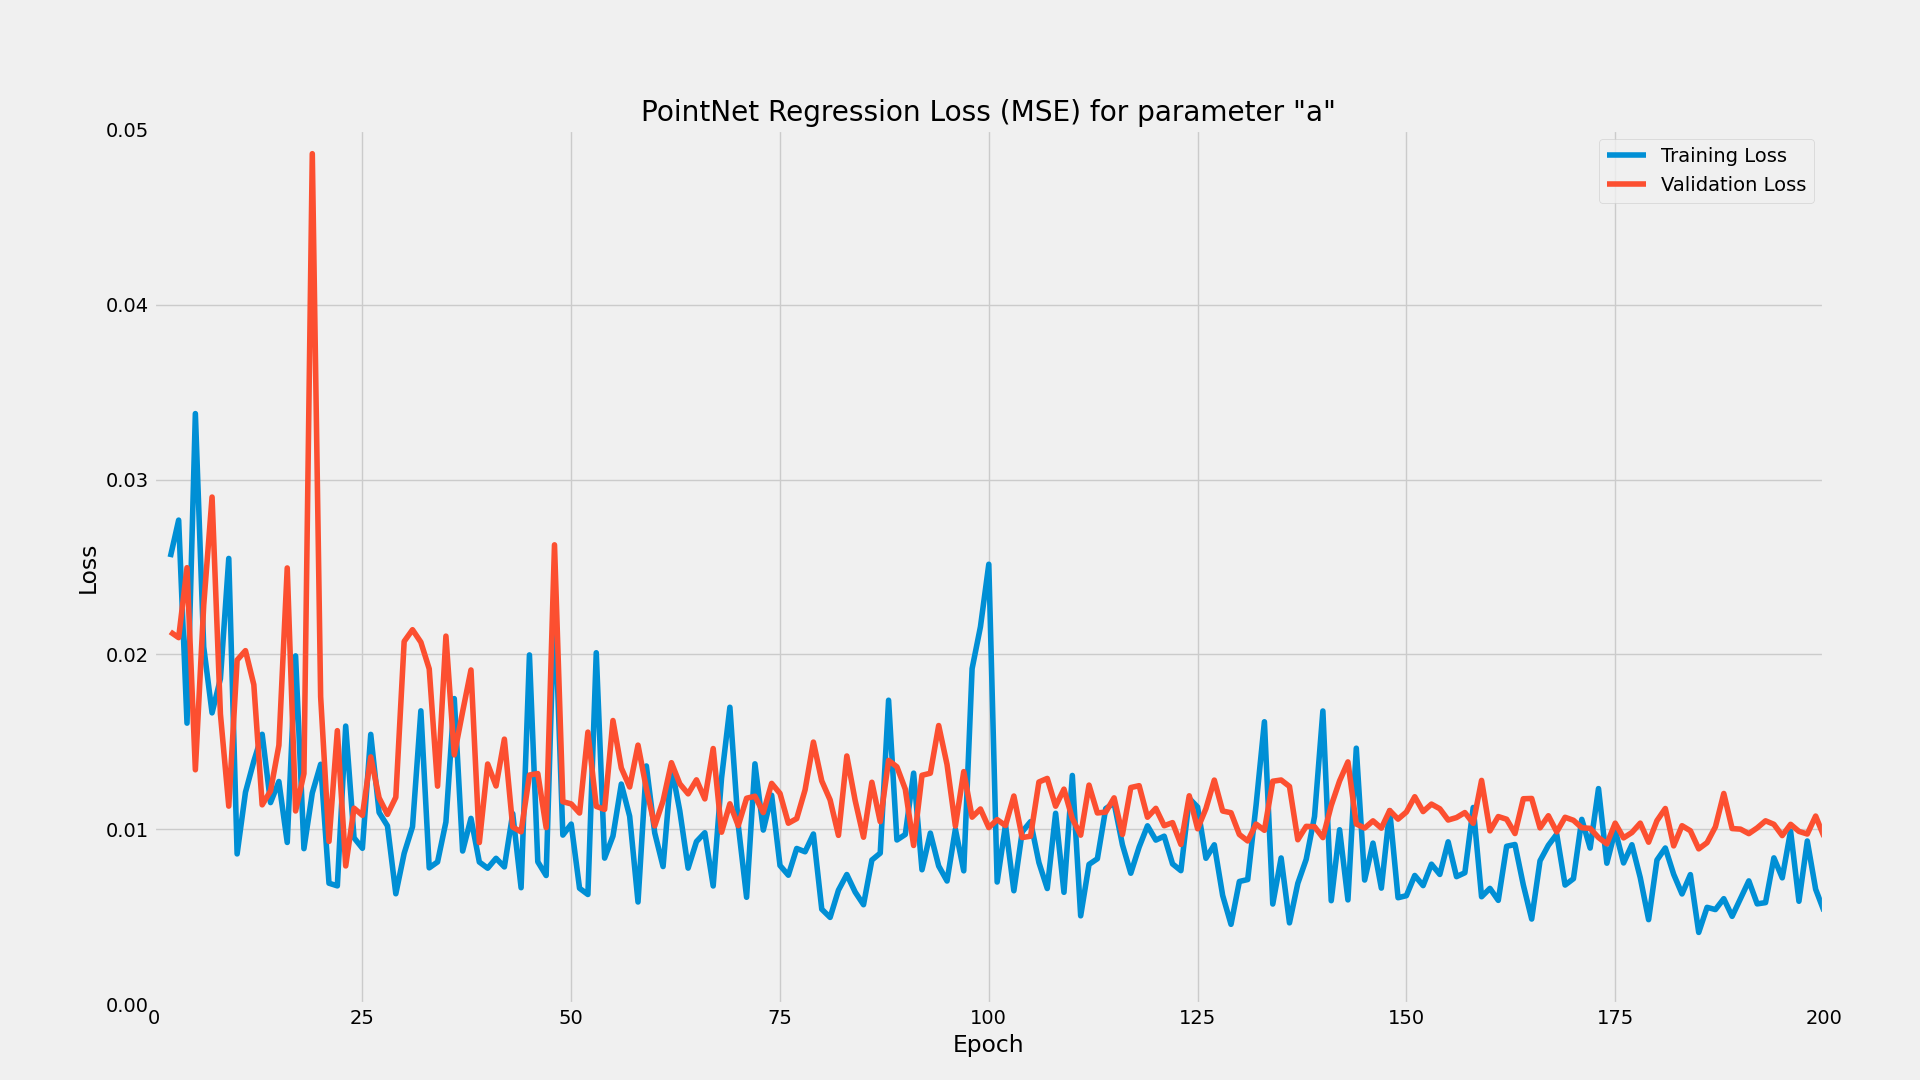
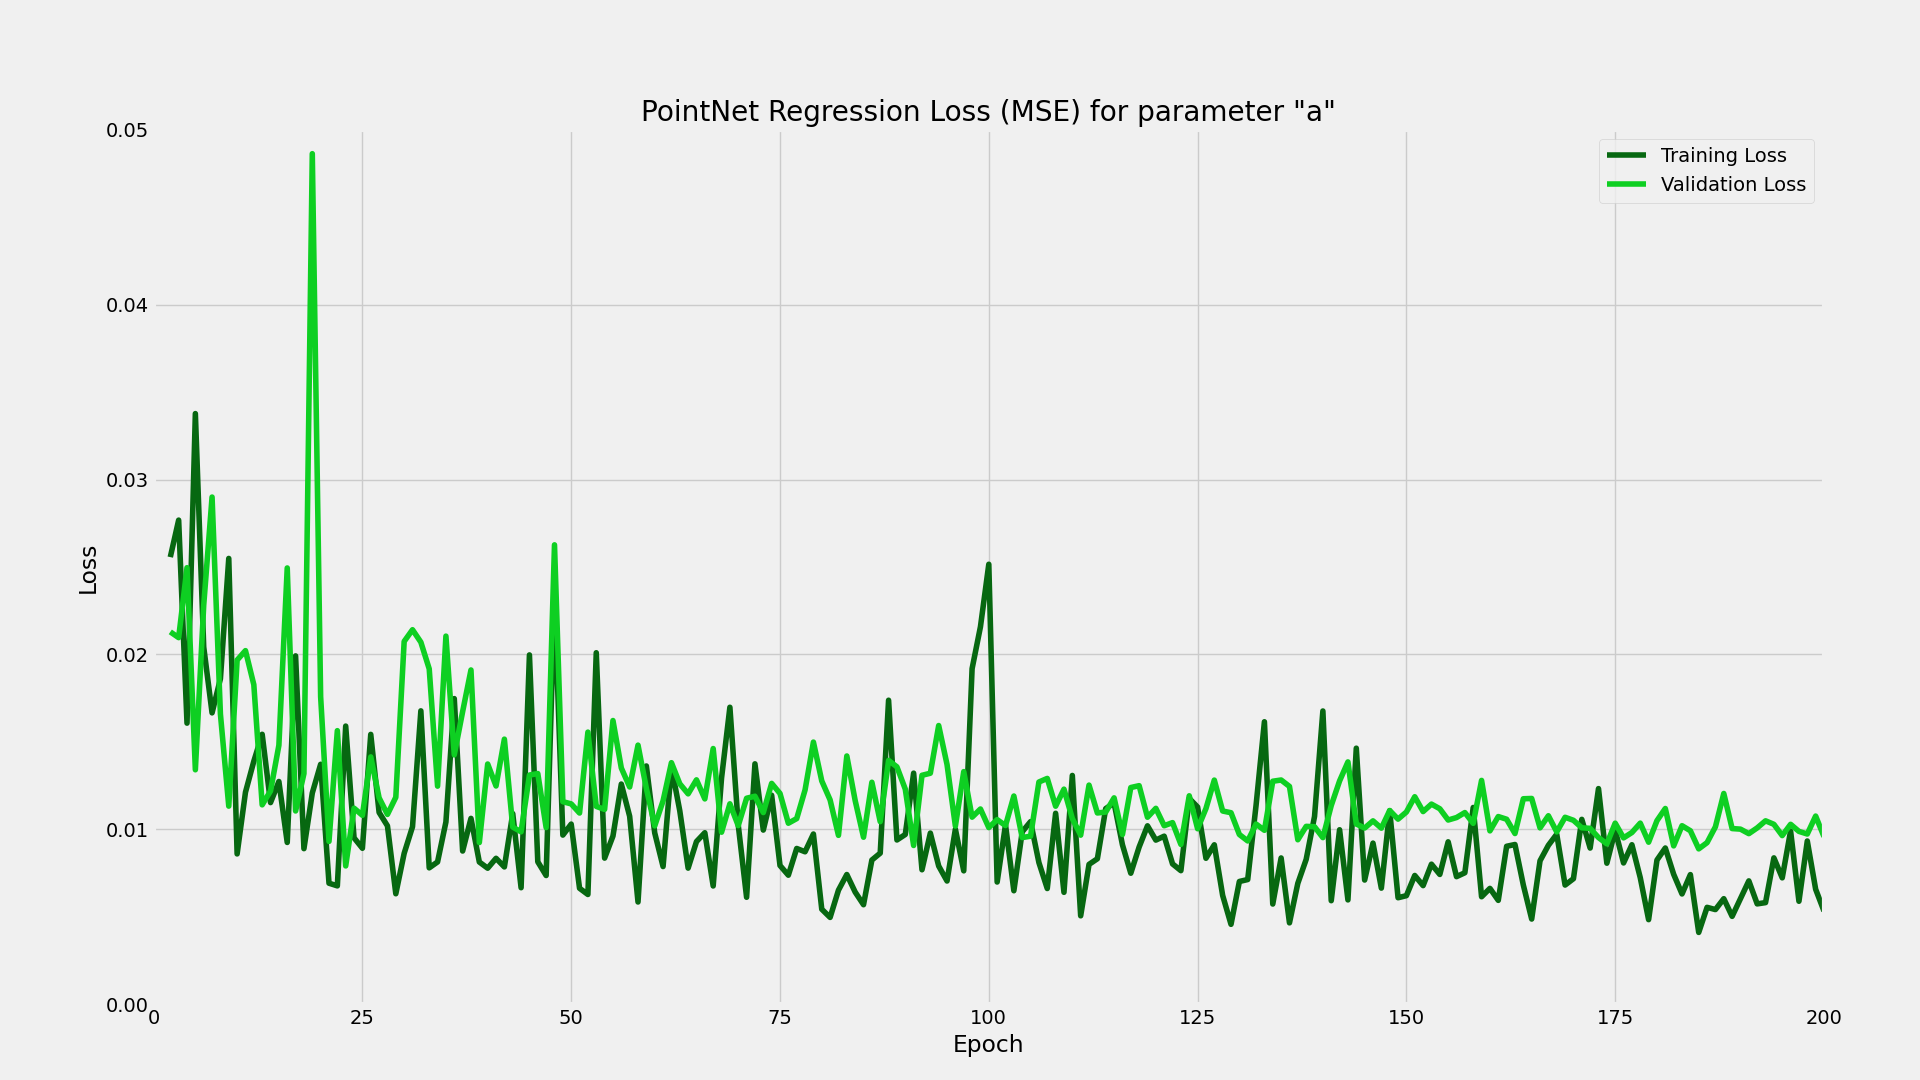
Copying colors from wandb graphs...

Changed region(s): [[0.0625, 0.1528, 0.9688, 0.8556]]

diff --git a/graphs/graph-cls-train-valid-acc.py b/graphs/graph-cls-train-valid-acc.py
@@ -1,9 +1,11 @@
 #!/usr/bin/env python3
 import matplotlib.pyplot as plt
 import numpy as np
+from colors import colors, hex_to_rgba, select_color
 
 # Read data from text file
-data = np.genfromtxt('cls-train-valid-acc.txt', skip_header=1)
+param = 'cls'
+data = np.genfromtxt(f'{param}-train-valid-acc.txt', skip_header=1)
 
 # Extract epoch values from the first column
 epochs = data[:, 0]
@@ -21,7 +23,7 @@ labels = ['Training Acc.', 'Validation Acc.']
 
 # Plot each loss column
 for i in range(losses.shape[1]):
-    ax.plot(epochs, losses[:, i], label=labels[i])
+    ax.plot(epochs, losses[:, i], label=labels[i], color=select_color(param, i))
 
 # Set plot title
 plt.title('PointNet Classification Accuracy')
@@ -37,10 +39,10 @@ plt.xlim(0, 200)
 plt.ylim(0.8, 1.01)  # Update with your desired y-axis limits
 
 # Add legend
-plt.legend()
+plt.legend(loc='lower right')
 
 fig.set_size_inches(19.2, 10.8)
-fig.savefig('cls-train-valid-acc.png', dpi=100)
+fig.savefig(f'{param}-train-valid-acc.png', dpi=100)
 
 # Show the plot
 plt.show()

diff --git a/graphs/graph-angle-train-valid-loss.py b/graphs/graph-angle-train-valid-loss.py
@@ -2,7 +2,10 @@
 import matplotlib.pyplot as plt
 import numpy as np
 
-stem = 'angle-train-valid-loss'
+from colors import colors, hex_to_rgba, select_color
+
+param = 'angle'
+stem = f'{param}-train-valid-loss'
 
 # Read data from text file
 data = np.genfromtxt(stem + '.txt', skip_header=1)
@@ -23,10 +26,10 @@ labels = ['Training Loss', 'Validation Loss']
 
 # Plot each loss column
 for i in range(losses.shape[1]):
-    ax.plot(epochs, losses[:, i], label=labels[i])
+	ax.plot(epochs, losses[:, i], label=labels[i], color=select_color(param, i))
 
 # Set plot title
-plt.title('PointNet Regression Loss (MSE) for parameter "angle"')
+plt.title(f'PointNet Regression Loss (MSE) for parameter "{param}"')
 
 # Set x-axis label
 plt.xlabel('Epoch')

diff --git a/graphs/graph-n_petals-train-valid-loss.py b/graphs/graph-n_petals-train-valid-loss.py
@@ -1,8 +1,10 @@
 #!/usr/bin/env python3
 import matplotlib.pyplot as plt
 import numpy as np
+from colors import colors, hex_to_rgba, select_color
 
-stem = 'n_petals-train-valid-loss'
+param = 'n_petals'
+stem = f'{param}-train-valid-loss'
 
 # Read data from text file
 data = np.genfromtxt(stem + '.txt', skip_header=1)
@@ -23,7 +25,7 @@ labels = ['Training Loss', 'Validation Loss']
 
 # Plot each loss column
 for i in range(losses.shape[1]):
-    ax.plot(epochs, losses[:, i], label=labels[i])
+    ax.plot(epochs, losses[:, i], label=labels[i], color=select_color(param, i))
 
 # Set plot title
 plt.title('PointNet Regression Loss (MSE) for parameter "n"')

diff --git a/graphs/graph-abxy-train-valid-loss.py b/graphs/graph-abxy-train-valid-loss.py
@@ -7,6 +7,8 @@ import numpy as np
 
 from pathlib import Path
 
+from colors import colors, hex_to_rgba, select_color
+
 if len(sys.argv) < 2:
 	print(f'\n\tUsage: {sys.argv[0]} <stem>\n')
 	sys.exit()
@@ -45,7 +47,7 @@ labels = ['Training Loss', 'Validation Loss']
 
 # Plot each loss column
 for i in range(losses.shape[1]):
-    ax.plot(epochs, losses[:, i], label=labels[i])
+    ax.plot(epochs, losses[:, i], label=labels[i], color=select_color(param, i))
 
 # Set plot title
 plt.title(f'PointNet Regression Loss (MSE) for parameter "{param}"')
